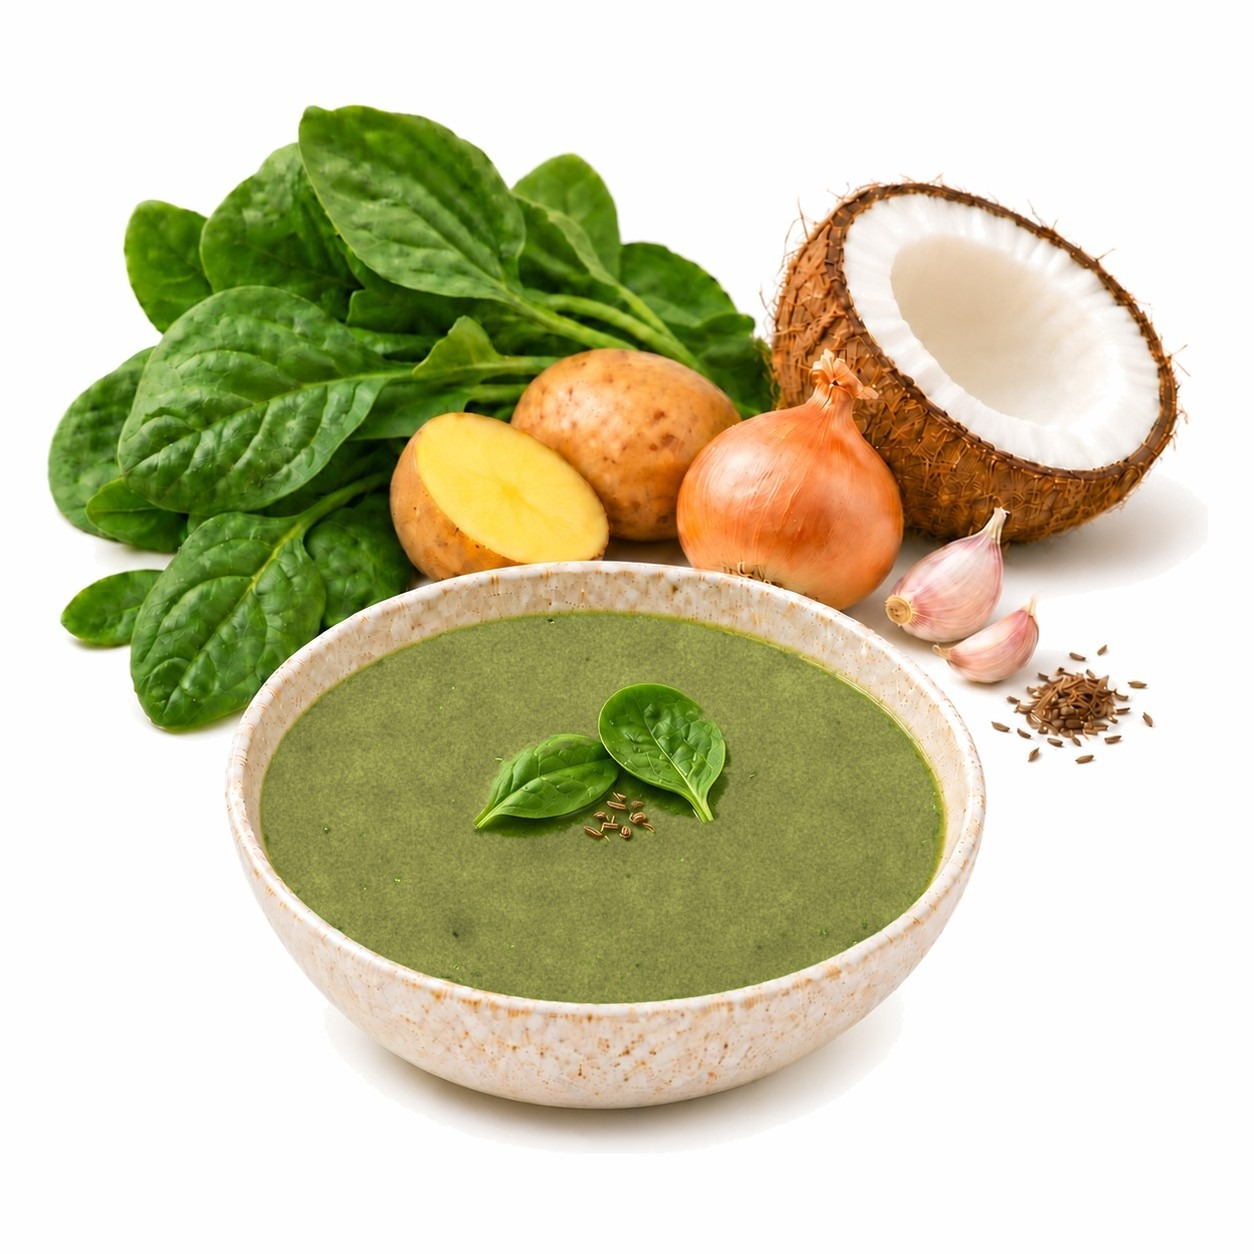
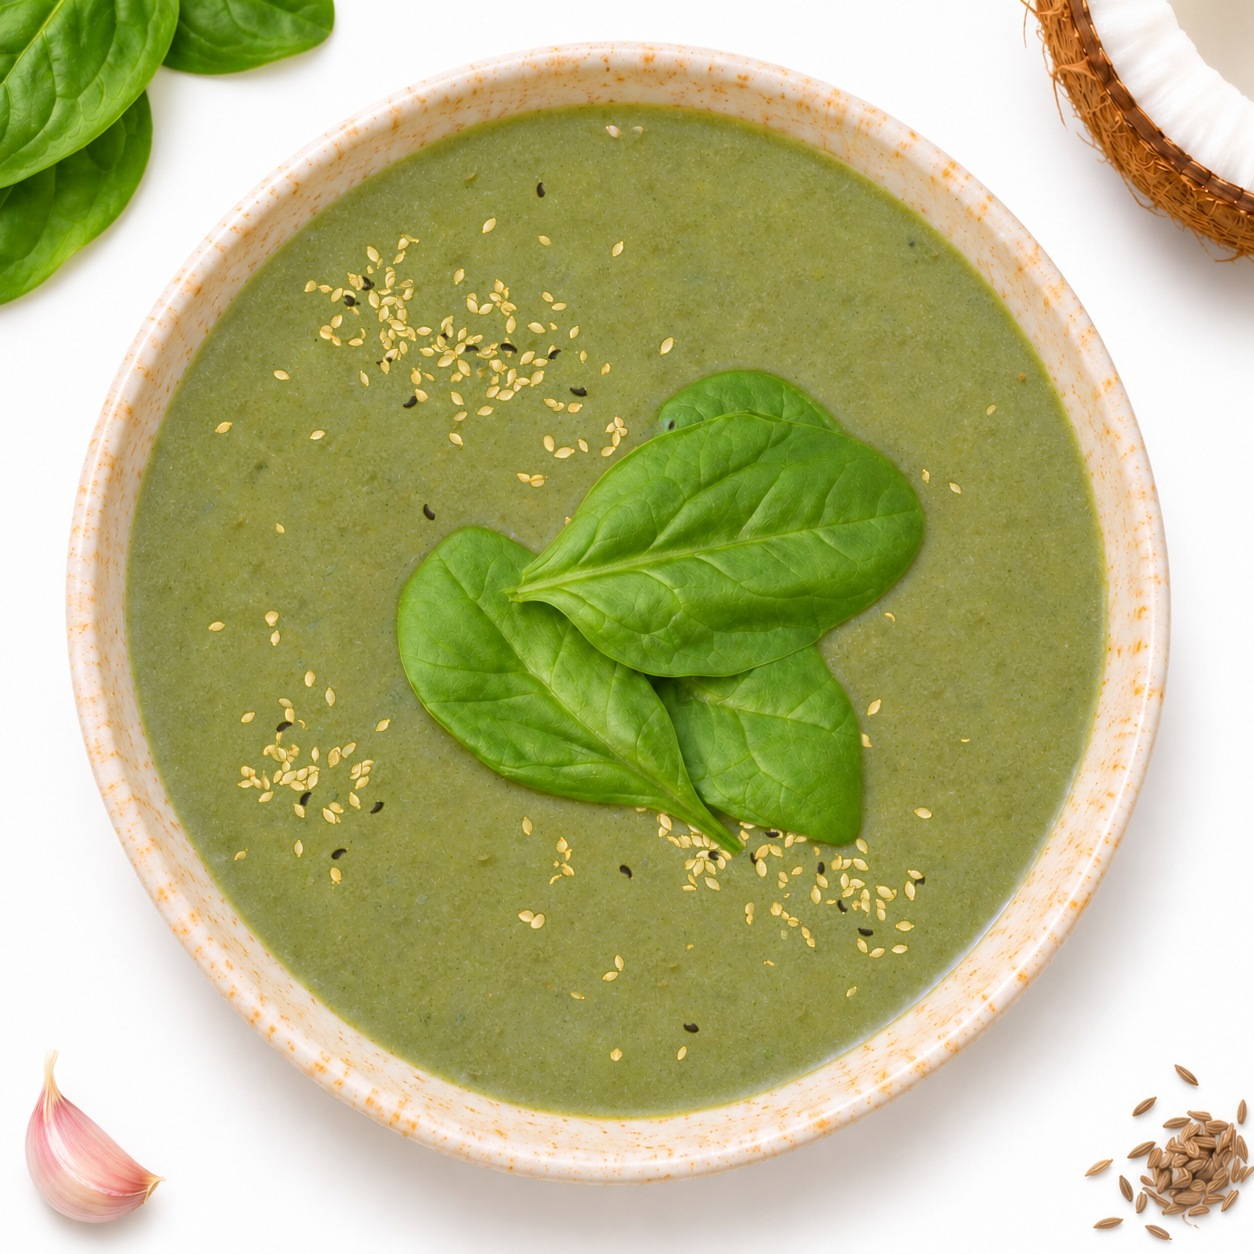
Špenátová polévka: hlavní fotka shora s posypem, fotka s beginou s ozdobou (#596)
Claude-Session: https://claude.ai/code/session_016QL8fyP6fDGx2RMwKgd8AU

diff --git a/dashboard/lib/eshop/productImages.ts b/dashboard/lib/eshop/productImages.ts
@@ -46,6 +46,8 @@ const BACKDROP: Record<string, string> = {
   "/eshop/polevky/rajcatova-polevka-begina-v5.jpg": "#fefefe",
   "/eshop/polevky/spenatova-polevka-miska-v5.jpg": "#fefefe",
   "/eshop/polevky/spenatova-polevka-begina-v5.jpg": "#fefefe",
+  "/eshop/polevky/spenatova-polevka-miska-v6.jpg": "#fefefe",
+  "/eshop/polevky/spenatova-polevka-begina-v6.jpg": "#fefefe",
   "/eshop/polevky/rajcatova-polevka-miska-v3.jpg": "#fefefe",
   "/eshop/polevky/rajcatova-polevka-s-cervenou-repou-miska-v3.jpg": "#fefefe",
   "/eshop/polevky/kulajda-miska.jpg": "#fafafb",
